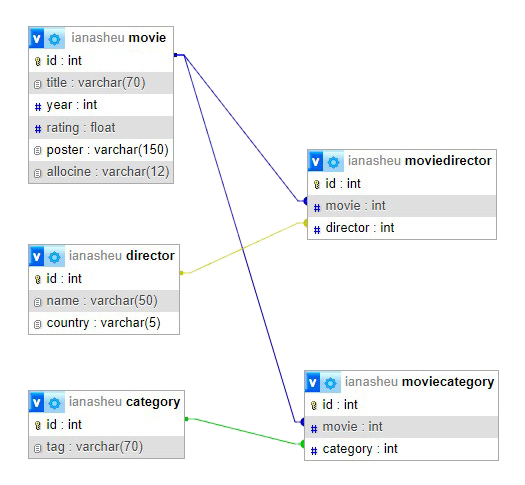
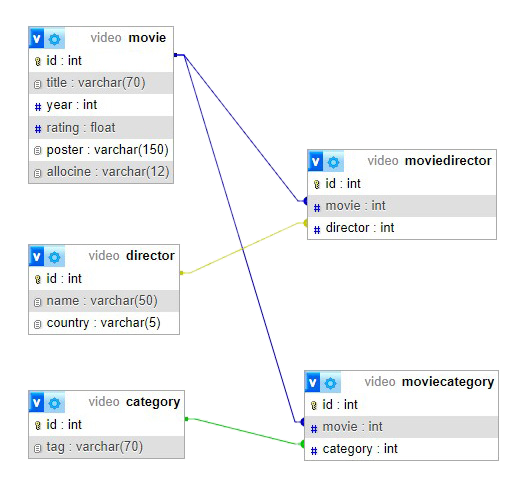
update schema + uml

diff --git a/README.md.html b/README.md.html
@@ -92,7 +92,7 @@ window.onload = function() {
 		`allocine` varchar(12) CHARACTER SET utf8mb4 COLLATE utf8mb4_0900_ai_ci DEFAULT NULL,
 		CONSTRAINT `movie_pk` PRIMARY KEY (`id`),
 		CONSTRAINT `movie_u` UNIQUE (`id`),
-		INDEX (`title`)
+		FULLTEXT INDEX (`title`)
 	) ENGINE=InnoDB DEFAULT CHARSET=utf8mb4 COLLATE=utf8mb4_general_ci;
 
 </code></pre>
@@ -178,7 +178,7 @@ window.onload = function() {
 <li>category</li>
 </ul>
 </blockquote>
-<p>Une clé API est toujours nécessaire. De plus, une identification basique est demandée pour les methods autres que GET. Un content au format json est nécessaire pour les methods POST et PUT. La valeur renseignée pour l'id, que ce soit dans l'url ou dans le content, doit être numérique.</p>
+<p>Une clé API est obligatoire et doit être renseignée dans le header X-Api-Key. De plus, une identification basique est demandée pour les methods autres que GET. Un content au format json est nécessaire pour les methods POST et PUT. La valeur renseignée pour l'id, que ce soit dans l'url ou dans le content, doit être numérique.</p>
 <h4>FILTRES</h4>
 <blockquote>
 <ul>
@@ -624,6 +624,14 @@ window.onload = function() {
 <li>404 Not Found</li>
 <li>405 Method Not Allowed</li>
 <li>503 Service Unavailable</li>
+</ul>
+<br>
+<h2>HEADERS REPONSES POSSIBLES</h2>
+<ul>
+<li>X-Authenticate-Error: API-Key</li>
+<li>WWW-Authenticate: Basic</li>
+<li>X-Error-Message</li>
+<li>X-Total-Count</li>
 </ul>
 </body>
 </html>

diff --git a/README.md b/README.md
@@ -23,7 +23,7 @@ CREATE TABLE `movie` (
 	`allocine` varchar(12) CHARACTER SET utf8mb4 COLLATE utf8mb4_0900_ai_ci DEFAULT NULL,
 	CONSTRAINT `movie_pk` PRIMARY KEY (`id`),
 	CONSTRAINT `movie_u` UNIQUE (`id`),
-	INDEX (`title`)
+	FULLTEXT INDEX (`title`)
 ) ENGINE=InnoDB DEFAULT CHARSET=utf8mb4 COLLATE=utf8mb4_general_ci;
 ```
 
@@ -101,7 +101,7 @@ Limitations : Il n'y a pas de version ni de cache. Sont abscents de l'archive le
 > - director
 > - category
 
-Une clé API est toujours nécessaire. De plus, une identification basique est demandée pour les methods autres que GET. Un content au format json est nécessaire pour les methods POST et PUT. La valeur renseignée pour l'id, que ce soit dans l'url ou dans le content, doit être numérique.
+Une clé API est obligatoire et doit être renseignée dans le header X-Api-Key. De plus, une identification basique est demandée pour les methods autres que GET. Un content au format json est nécessaire pour les methods POST et PUT. La valeur renseignée pour l'id, que ce soit dans l'url ou dans le content, doit être numérique.
 
 #### FILTRES
 > - orderby
@@ -487,3 +487,10 @@ Les valeurs pour year et rating doivent être numériques.
 - 404 Not Found
 - 405 Method Not Allowed
 - 503 Service Unavailable
+
+
+## HEADERS REPONSES POSSIBLES
+- X-Authenticate-Error: API-Key
+- WWW-Authenticate: Basic
+- X-Error-Message
+- X-Total-Count
